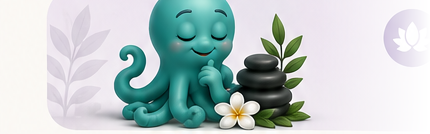
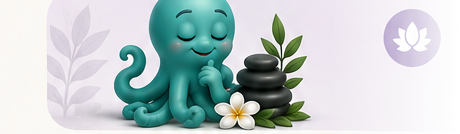
Refond les lignes catégorie à l'identique de la maquette « Explorer Koté Moris »
Titre en majuscules, icône ronde colorée, sous-texte éditorial sur 2
lignes (repris mot pour mot de la maquette) et bouton flèche rond —
plus de position gauche/droite alternée, la mascotte est toujours à
gauche comme sur la maquette. Bandeau image en object-contain (jamais
rogné, contrairement à la v. précédente en object-cover).

diff --git a/web/components/ui/CategoryRow.tsx b/web/components/ui/CategoryRow.tsx
@@ -1,25 +1,9 @@
 "use client";
 
+import { ArrowRight } from "@phosphor-icons/react";
 import type { CategoryKey } from "@/lib/types";
 import { CATEGORY_MAP } from "@/data/categories";
 import { iconForKey, subIconFor, mascotFor } from "@/lib/icons";
-
-/**
- * Position de la mascotte dans la ligne de catégorie — gauche/droite en
- * alternance. Pas de position « centrée » : elle empilait le texte sous la
- * mascotte et augmentait la hauteur de la carte, cassant l'uniformité des 8
- * lignes (toutes doivent faire la même taille, avec les mêmes données).
- */
-const MASCOT_POSITION: Record<string, "left" | "right"> = {
-  "manger-boire": "left",
-  "sortir-decouvrir": "right",
-  "faire-du-sport": "left",
-  "sante-bien-etre": "right",
-  "acheter-equiper": "left",
-  "vie-pratique": "right",
-  "famille-travail": "left",
-  agenda: "right",
-};
 
 /** Angle du dégradé de fond, varié par catégorie pour éviter 8 lignes identiques. */
 const GRADIENT_ANGLE: Record<string, number> = {
@@ -31,6 +15,21 @@ const GRADIENT_ANGLE: Record<string, number> = {
   "vie-pratique": 135,
   "famille-travail": 75,
   agenda: 105,
+};
+
+/**
+ * Sous-texte (2 lignes) des 8 lignes catégorie — repris à l'identique de la
+ * maquette fournie par la cliente (planche « Explorer Koté Moris »).
+ */
+const CATEGORY_SUBTEXT: Record<string, [string, string]> = {
+  "manger-boire": ["Restaurants, cafés, bars", "Tables d'hôtes, spécialités locales"],
+  "sortir-decouvrir": ["Plages, visites, excursions", "Culture, nature, lieux insolites"],
+  "faire-du-sport": ["Activités sportives, clubs", "Aventures, sensations fortes"],
+  "sante-bien-etre": ["Soins, bien-être, détente", "Yoga, spas, praticiens"],
+  "acheter-equiper": ["Boutiques, créateurs, déco", "Équipements, accessoires"],
+  "vie-pratique": ["Services, dépannage, entretien", "Transports, bricolage, astuces"],
+  "famille-travail": ["Enfants, éducation, sorties en famille", "Télétravail, entrepreneuriat, services"],
+  agenda: ["Événements, sorties, ateliers", "Bons plans du moment"],
 };
 
 /**
@@ -73,14 +72,13 @@ export function CategoryRow({
   const countLabel =
     count !== undefined ? `${count} adresse${count > 1 ? "s" : ""}` : undefined;
 
-  // Ligne « mascotte » (catégorie) : fond lavis dégradé dans la couleur de la
-  // catégorie (angle varié, cf. GRADIENT_ANGLE) ; bandeau photo+mascotte (planche
-  // fournie par la cliente) collé au bord gauche ou droit (cf. MASCOT_POSITION),
-  // bord feathered en dégradé alpha pour se fondre dans le fond de la ligne.
+  // Ligne « mascotte » (catégorie) : reprend à l'identique la maquette
+  // « Explorer Koté Moris » de la cliente — bandeau photo+mascotte à gauche
+  // (object-contain, jamais rogné), icône ronde + titre capitales + sous-texte
+  // 2 lignes au centre, bouton flèche rond à droite.
   if (mascot && cat) {
-    const pos = MASCOT_POSITION[resolvedKey] ?? "left";
     const angle = GRADIENT_ANGLE[resolvedKey] ?? 120;
-    const labelColor = `color-mix(in srgb, ${cat.color} 55%, var(--ink))`;
+    const subtext = CATEGORY_SUBTEXT[resolvedKey];
 
     const banner = (
       // eslint-disable-next-line @next/next/no-img-element
@@ -88,18 +86,21 @@ export function CategoryRow({
         src={mascot}
         alt=""
         aria-hidden
-        className={`pointer-events-none absolute inset-y-0 w-[190px] object-cover ${
-          pos === "right" ? "right-0 scale-x-[-1]" : "left-0"
-        }`}
+        className="pointer-events-none absolute inset-y-0 left-0 h-full w-[128px] object-contain object-left"
       />
     );
     const text = (
-      <span
-        className="relative z-10 flex-1 min-w-0 flex flex-col justify-center gap-0.5"
-        style={pos === "left" ? { marginLeft: 140 } : { marginRight: 140 }}
-      >
-        <span className="flex items-start gap-1.5">
-          <span className="text-[17px] font-extrabold leading-tight" style={{ color: labelColor }}>
+      <span className="relative z-10 flex-1 min-w-0 flex flex-col justify-center gap-1" style={{ marginLeft: 122 }}>
+        <span className="flex items-center gap-1.5">
+          {Icon && (
+            <span
+              className="shrink-0 inline-flex items-center justify-center w-7 h-7 rounded-full text-on-accent"
+              style={{ background: cat.color }}
+            >
+              <Icon size={15} weight="bold" aria-hidden />
+            </span>
+          )}
+          <span className="text-[14px] font-extrabold uppercase tracking-tight leading-tight text-ink truncate">
             {displayLabel}
           </span>
           {locked && (
@@ -111,40 +112,37 @@ export function CategoryRow({
             </span>
           )}
         </span>
-        {countLabel && (
-          <span className="text-[12px] font-semibold" style={{ color: `color-mix(in srgb, ${cat.color} 70%, var(--muted))` }}>
-            {countLabel}
+        {subtext && (
+          <span className="text-[11.5px] leading-snug text-muted">
+            {subtext[0]}
+            <br />
+            {subtext[1]}
           </span>
         )}
       </span>
     );
-    const chev = (
-      <span className="relative z-10 shrink-0 text-[20px] font-bold leading-none" style={{ color: cat.color }} aria-hidden>
-        ›
+    const arrowBtn = (
+      <span
+        className="relative z-10 shrink-0 inline-flex items-center justify-center w-8 h-8 rounded-full text-on-accent"
+        style={{ background: cat.color }}
+        aria-hidden
+      >
+        <ArrowRight size={16} weight="bold" />
       </span>
     );
 
-    const rowBg = `linear-gradient(${angle}deg, color-mix(in srgb, ${cat.color} 30%, var(--surface)) 0%, color-mix(in srgb, ${cat.color} 8%, var(--surface)) 75%)`;
-    const rowBorder = `1px solid color-mix(in srgb, ${cat.color} 38%, var(--border))`;
+    const rowBg = `linear-gradient(${angle}deg, color-mix(in srgb, ${cat.color} 22%, var(--surface)) 0%, color-mix(in srgb, ${cat.color} 6%, var(--surface)) 75%)`;
+    const rowBorder = `1px solid color-mix(in srgb, ${cat.color} 30%, var(--border))`;
 
     return (
       <button
         onClick={onClick}
-        className="relative w-full h-[84px] flex items-center gap-3 rounded-2xl px-3.5 text-left overflow-hidden active:scale-[.99] transition-transform"
+        className="relative w-full min-h-[92px] flex items-center gap-2.5 rounded-2xl py-2.5 pl-2 pr-3 text-left overflow-hidden active:scale-[.99] transition-transform"
         style={{ background: rowBg, border: rowBorder }}
       >
         {banner}
-        {pos === "left" ? (
-          <>
-            {text}
-            {chev}
-          </>
-        ) : (
-          <>
-            {chev}
-            {text}
-          </>
-        )}
+        {text}
+        {arrowBtn}
       </button>
     );
   }
